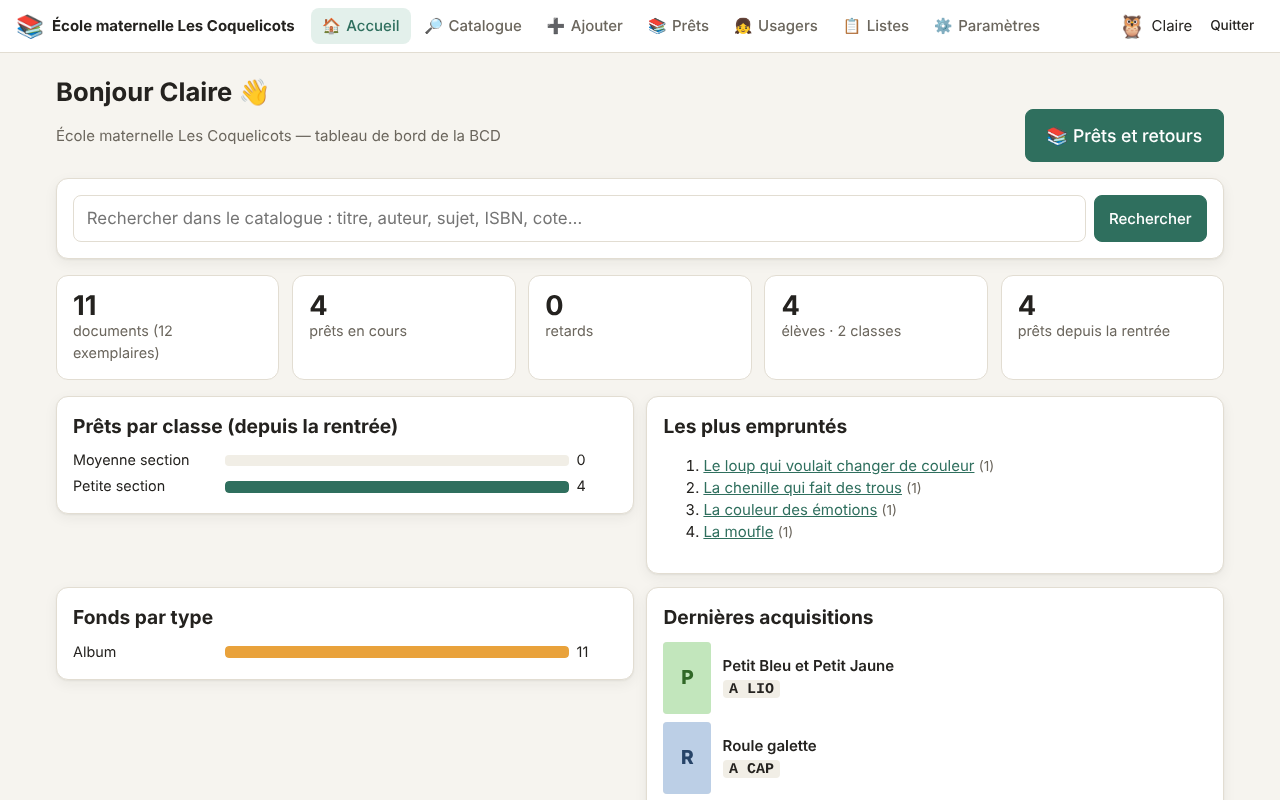
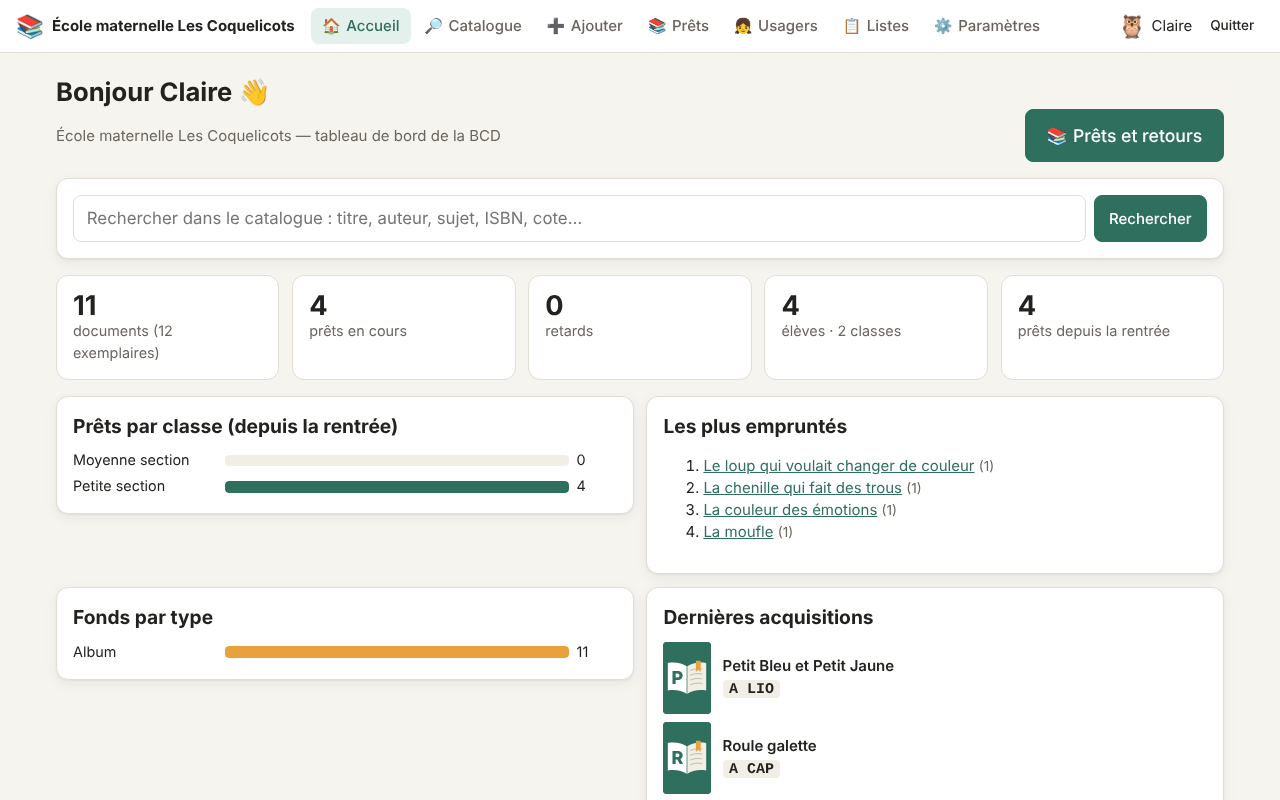
Vignette des livres sans image : l'icône de l'application avec la lettre du titre
- Livre ouvert de l'icône sur fond vert, première lettre du titre (après l'article)
  sur la page de gauche ; partout où une couverture manque
- Cote des documentaires : saisons et nature reconnues (Dewey 508)
- Captures d'écran de la présentation mises à jour

Claude-Session: https://claude.ai/code/session_01DrFeSKTAcbsix7tdNERKUR

Changed region(s): [[0.5, 0.7812, 0.5625, 1.0]]

diff --git a/public/js/ui.js b/public/js/ui.js
@@ -72,10 +72,34 @@ export function plural(n, one, many = one + 's') {
   return `${n} ${n > 1 ? many : one}`;
 }
 
+const TITLE_ARTICLES = new Set(['le', 'la', 'les', 'l', 'un', 'une', 'des', 'du', 'de', 'd']);
+
+/** Lettre affichée sur la vignette : celle du premier mot significatif (« Le loup… » → « L » de loup). */
+function coverLetter(title) {
+  const words = String(title ?? '').trim().split(/[\s'’]+/).filter(Boolean);
+  const word = words.find((w) => !TITLE_ARTICLES.has(w.toLowerCase())) ?? words[0] ?? '?';
+  return (word.match(/[\p{L}\p{N}]/u)?.[0] ?? '?').toUpperCase();
+}
+
+/** Vignette sans image : l'icône de l'application (livre ouvert), la lettre sur la page de gauche. */
+function coverFallback(title) {
+  return `<div class="cover-fallback"><svg viewBox="0 0 200 300" preserveAspectRatio="xMidYMid slice" aria-hidden="true">
+    <rect width="200" height="300" fill="#2f6f5e"/>
+    <g transform="translate(-28 18) scale(.5)">
+      <path d="M256 168 C 214 136 150 128 96 138 L 96 368 C 150 358 214 366 256 398 Z" fill="#fff"/>
+      <path d="M256 168 C 298 136 362 128 416 138 L 416 368 C 362 358 298 366 256 398 Z" fill="#f1eee6"/>
+      <path d="M256 168 L 256 398" stroke="#2f6f5e" stroke-width="6"/>
+      <g fill="none" stroke="#c9c2b2" stroke-width="10" stroke-linecap="round">
+        <path d="M286 200 C 312 188 344 184 380 190"/><path d="M286 240 C 312 228 344 224 380 230"/>
+        <path d="M286 280 C 312 268 344 264 380 270"/><path d="M286 320 C 312 308 344 304 380 310"/></g>
+      <path d="M330 120 L 370 120 L 370 214 L 350 196 L 330 214 Z" fill="#e9a23b"/>
+      <text x="176" y="318" text-anchor="middle" font-size="150" font-weight="800" fill="#2f6f5e"
+        font-family="system-ui, -apple-system, 'Segoe UI', Roboto, sans-serif">${esc(coverLetter(title))}</text>
+    </g></svg></div>`;
+}
+
 export function cover(doc, cls = '') {
-  const letter = esc((doc.title ?? '?').trim()[0] ?? '?');
-  const hue = [...String(doc.title ?? '')].reduce((a, c) => a + c.charCodeAt(0), 0) % 360;
-  const fallback = `<div class="cover-fallback" style="--h:${hue}"><span>${letter}</span></div>`;
+  const fallback = coverFallback(doc.title);
   if (!doc.cover_url) return `<div class="cover ${cls}">${fallback}</div>`;
   return `<div class="cover ${cls}">${fallback}<img src="${esc(doc.cover_url)}" alt="" loading="lazy"
     onload="if(this.naturalWidth<2)this.remove()" onerror="this.remove()"></div>`;

diff --git a/server/cote.js b/server/cote.js
@@ -48,7 +48,7 @@ const DEWEY_KEYWORDS = [
   ['metier', '331'], ['ecole', '370'], ['fete', '394'], ['conte ', '398'], ['contes', '398'],
   ['anglais', '420'], ['grammaire', '440'], ['orthographe', '440'], ['langue francaise', '440'],
   ['mathemat', '510'], ['astronom', '520'], ['espace', '520'], ['planete', '520'], ['etoile', '520'],
-  ['physique', '530'], ['energie', '530'], ['electricite', '530'], ['chimie', '540'],
+  ['saison', '508'], ['nature', '508'], ['physique', '530'], ['energie', '530'], ['electricite', '530'], ['chimie', '540'],
   ['volcan', '551'], ['meteo', '551'], ['climat', '551'], ['ocean', '551'], ['geologie', '550'],
   ['ecologie', '577'], ['environnement', '577'], ['plante', '580'], ['arbre', '580'], ['fleur', '580'],
   ['insecte', '595'], ['poisson', '597'], ['oiseau', '598'], ['mammifere', '599'], ['animau', '590'], ['animal', '590'],

diff --git a/public/style.css b/public/style.css
@@ -149,7 +149,8 @@ td.num, th.num { text-align: right; }
 /* Couvertures */
 .cover { position: relative; width: 48px; aspect-ratio: 2 / 3; border-radius: 4px; overflow: hidden; flex-shrink: 0; background: var(--surface-2); }
 .cover img { position: absolute; inset: 0; width: 100%; height: 100%; object-fit: cover; }
-.cover-fallback { position: absolute; inset: 0; display: grid; place-items: center; background: hsl(var(--h) 45% 82%); color: hsl(var(--h) 45% 28%); font-weight: 800; font-size: 1.2rem; }
+.cover-fallback { position: absolute; inset: 0; background: #2f6f5e; }
+.cover-fallback svg { display: block; width: 100%; height: 100%; }
 .cover-lg { width: 160px; }
 .cover-lg .cover-fallback { font-size: 3rem; }
 .cover-md { width: 100%; }

diff --git a/test/units.test.js b/test/units.test.js
@@ -25,6 +25,7 @@ test('calcul des cotes', () => {
   assert.equal(firstAuthorSurname('Roald Dahl'), 'Dahl');
   assert.equal(guessDewey({ title: 'Mon entraînement' }), null);
   assert.equal(guessDewey({ subjects: 'Trains' }), '625');
+  assert.equal(guessDewey({ title: 'Le grand livre des saisons' }), '508');
 });
 
 test('import ONDE (CSV « ; », en-têtes officiels)', () => {

diff --git a/CHANGELOG.md b/CHANGELOG.md
@@ -5,6 +5,9 @@ Toutes les évolutions notables de **BCD**. Les numéros suivent la forme `majeu
 ## [1.3.2] — 2026-11-11
 
 ### Ajouté
+- **Vignette des livres sans image** : l'icône de l'application (livre ouvert) avec la première lettre du titre
+  sur la page de gauche (« Le loup… » → « L » de loup).
+- Cote des documentaires : les saisons et la nature sont reconnues (indice Dewey 508).
 - **Aperçu avant impression** : chaque bouton « Imprimer » (et Ctrl+P) ouvre d'abord une fenêtre montrant la feuille
   telle qu'elle sortira (A4, portrait ou paysage), avec le bouton « Imprimer » en bas.
 - **Import ONDE : élèves qui partent avec un livre** signalés dans l'aperçu, avec des boutons « Rendu » / « Perdu »
